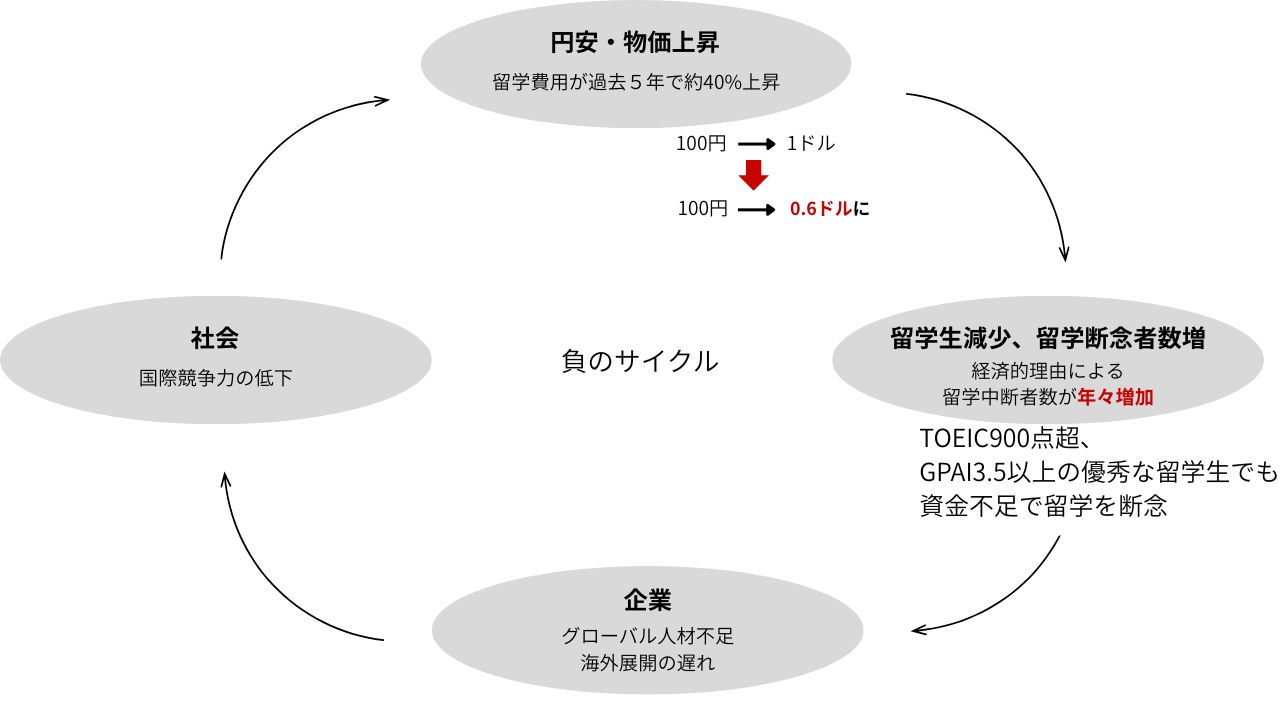
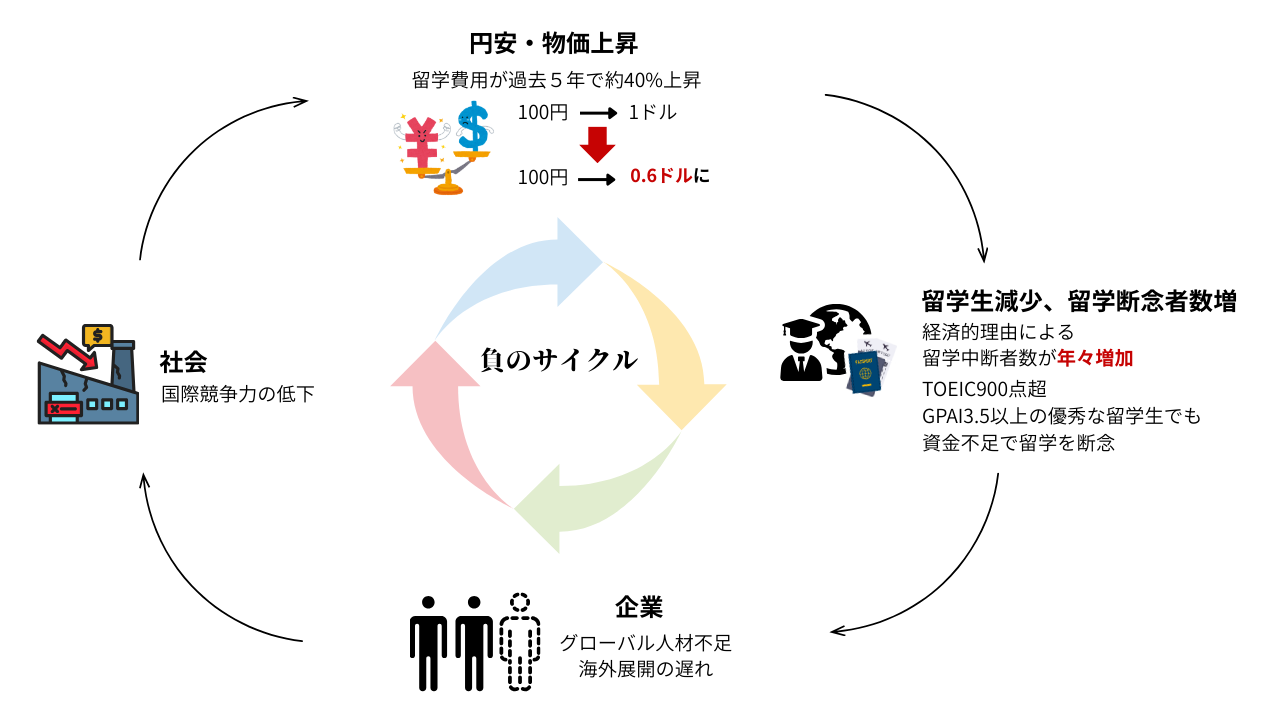
全ての図解を変更

diff --git a/src/app/supporters/page.tsx b/src/app/supporters/page.tsx
@@ -62,18 +62,18 @@ export default function SupportersPage() {
           </div>
 
           <div className="max-w-4xl mx-auto mb-16">
-            <div className="bg-white rounded-2xl p-8 shadow-none border border-neutral-200">
-              <Image
-                src="/images/supporters/cycle.png"
-                alt="グローバル人材エコシステム図"
-                width={600}
-                height={400}
-                className="w-full h-auto rounded-lg mb-8"
-              />
-              <Typography variant="body-md" className="text-gray text-center">
-                エコシステム図：グローバル人材の流出問題と支援の重要性
-              </Typography>
-            </div>
+          <div className="rounded-2xl p-8">
+  <Image
+    src="/images/supporters/cycle.png"
+    alt="グローバル人材エコシステム図"
+    width={600}
+    height={400}
+    className="w-full h-auto rounded-lg mb-8"
+  />
+  <Typography variant="body-lg" className="text-black text-center">
+    エコシステム図：グローバル人材の流出問題と支援の重要性
+  </Typography>
+</div>
           </div>
         </Container>
       </Section>
